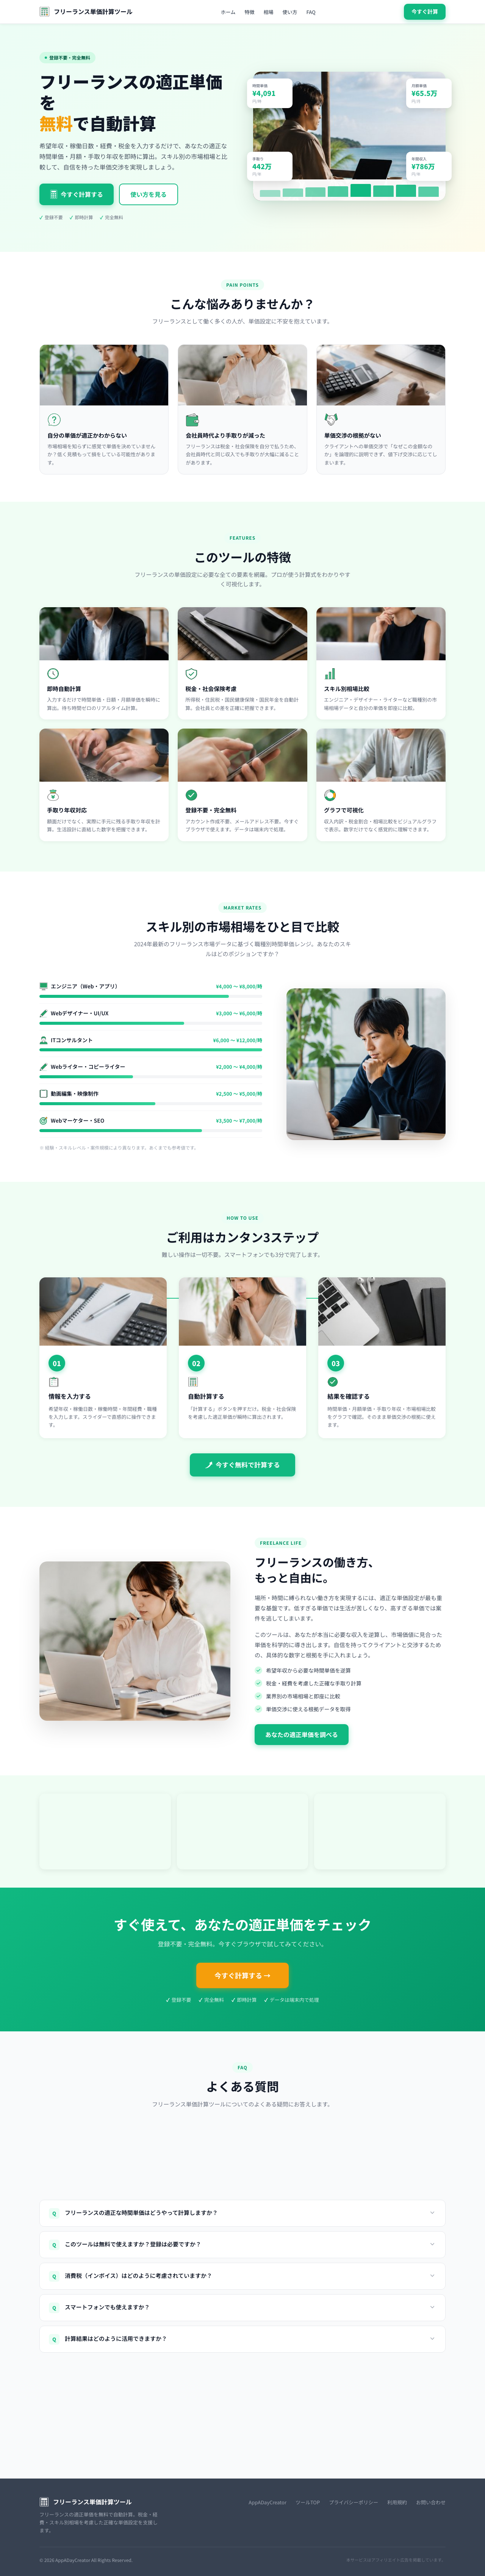
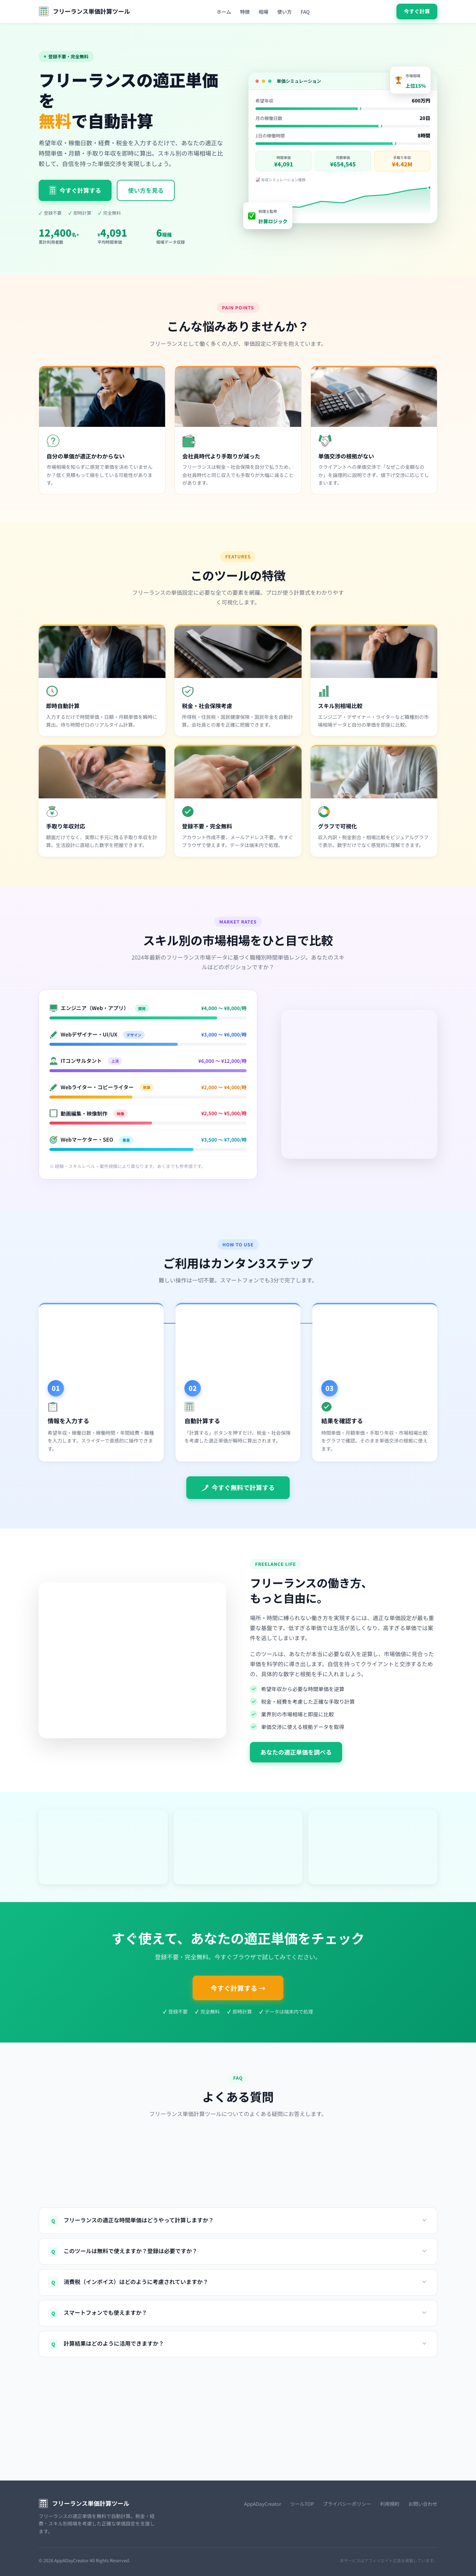
Refine: step7 compare-and-fix vs ChatGPT mockup

diff --git a/lp/index.html b/lp/index.html
@@ -72,6 +72,12 @@ img { max-width: 100%; height: auto; display: block; }
   border-radius: 99px;
   margin-bottom: 14px;
 }
+/* Colored section-label variants (visual richness per section) */
+.section-label.lb-rose   { background: #FFE4E6; color: #E11D48; }
+.section-label.lb-amber  { background: #FEF3C7; color: #D97706; }
+.section-label.lb-violet { background: #EDE9FE; color: #7C3AED; }
+.section-label.lb-blue   { background: #DBEAFE; color: #2563EB; }
+.section-label.lb-cyan   { background: #CFFAFE; color: #0891B2; }
 .section-title {
   font-size: clamp(22px, 4vw, 32px);
   font-weight: 700;
@@ -312,7 +318,7 @@ img { max-width: 100%; height: auto; display: block; }
 .chip-2 { bottom: -16px; left: -14px; }
 
 /* ===== WORRIES ===== */
-.worries { background: #fff; padding: 72px 0; }
+.worries { background: linear-gradient(180deg, #FFF7ED 0%, #FFFBF5 100%); padding: 72px 0; }
 .worries-grid {
   display: grid;
   grid-template-columns: repeat(3, 1fr);
@@ -320,14 +326,15 @@ img { max-width: 100%; height: auto; display: block; }
   margin-top: 48px;
 }
 .worry-card {
-  background: #F9FAFB;
-  border: 1px solid #E5E7EB;
+  background: #fff;
+  border: 1px solid #FDE4CE;
+  border-top: 4px solid #FB923C;
   border-radius: 16px;
   padding: 0;
   overflow: hidden;
   transition: box-shadow 0.2s, transform 0.2s;
 }
-.worry-card:hover { box-shadow: 0 8px 32px rgba(16,185,129,0.1); transform: translateY(-4px); }
+.worry-card:hover { box-shadow: 0 10px 32px rgba(251,146,60,0.18); transform: translateY(-4px); }
 .worry-card-img { width: 100%; height: 160px; object-fit: cover; }
 .worry-card-body { padding: 20px; }
 .worry-icon { width: 36px; height: 36px; margin-bottom: 12px; }
@@ -341,7 +348,8 @@ img { max-width: 100%; height: auto; display: block; }
 .worry-desc { font-size: 13px; color: #6B7280; line-height: 1.65; }
 
 /* ===== FEATURES ===== */
-.features { background: #F0FDF4; padding: 80px 0; }
+.features { background: linear-gradient(180deg, #FFFBEB 0%, #FEF9E7 100%); padding: 80px 0; }
+.feature-card { border-top: 4px solid #FBBF24; }
 .features-grid {
   display: grid;
   grid-template-columns: repeat(3, 1fr);
@@ -368,7 +376,8 @@ img { max-width: 100%; height: auto; display: block; }
 .feature-desc { font-size: 13px; color: #6B7280; line-height: 1.65; }
 
 /* ===== RATES ===== */
-.rates { background: #fff; padding: 80px 0; }
+.rates { background: linear-gradient(180deg, #FAF5FF 0%, #F5F3FF 100%); padding: 80px 0; }
+.rates-table { background: #fff; border: 1px solid #E9D5FF; border-radius: 18px; padding: 24px 28px; box-shadow: 0 8px 30px rgba(139,92,246,0.08); }
 .rates-inner {
   display: grid;
   grid-template-columns: 1fr 420px;
@@ -447,7 +456,8 @@ img { max-width: 100%; height: auto; display: block; }
 .rate-note { font-size: 12px; color: #9CA3AF; margin-top: 16px; }
 
 /* ===== STEPS ===== */
-.steps { background: #F0FDF4; padding: 80px 0; }
+.steps { background: linear-gradient(180deg, #EFF6FF 0%, #EAF2FE 100%); padding: 80px 0; }
+.step-card { border-top: 4px solid #60A5FA; }
 .steps-grid {
   display: grid;
   grid-template-columns: repeat(3, 1fr);
@@ -462,7 +472,7 @@ img { max-width: 100%; height: auto; display: block; }
   left: calc(16.67% + 16px);
   right: calc(16.67% + 16px);
   height: 2px;
-  background: linear-gradient(90deg, #10B981, #34D399);
+  background: linear-gradient(90deg, #3B82F6, #60A5FA);
   z-index: 0;
 }
 .step-card {
@@ -481,13 +491,13 @@ img { max-width: 100%; height: auto; display: block; }
   justify-content: center;
   width: 44px;
   height: 44px;
-  background: #10B981;
+  background: linear-gradient(135deg, #3B82F6, #60A5FA);
   color: #fff;
   font-size: 18px;
   font-weight: 800;
   border-radius: 50%;
   margin-bottom: 14px;
-  box-shadow: 0 4px 12px rgba(16,185,129,0.35);
+  box-shadow: 0 4px 12px rgba(59,130,246,0.35);
 }
 .step-icon { width: 28px; height: 28px; margin-bottom: 10px; }
 .step-title { font-size: 16px; font-weight: 700; color: #111827; margin-bottom: 8px; }
@@ -842,7 +852,7 @@ img { max-width: 100%; height: auto; display: block; }
 <section class="worries" aria-labelledby="worries-title">
   <div class="container">
     <div class="text-center">
-      <div class="section-label">PAIN POINTS</div>
+      <div class="section-label lb-rose">PAIN POINTS</div>
       <h2 class="section-title" id="worries-title">こんな悩みありませんか？</h2>
       <p class="section-sub">フリーランスとして働く多くの人が、単価設定に不安を抱えています。</p>
     </div>
@@ -882,7 +892,7 @@ img { max-width: 100%; height: auto; display: block; }
 <section class="features" id="features" aria-labelledby="features-title">
   <div class="container">
     <div class="text-center">
-      <div class="section-label">FEATURES</div>
+      <div class="section-label lb-amber">FEATURES</div>
       <h2 class="section-title" id="features-title">このツールの特徴</h2>
       <p class="section-sub">フリーランスの単価設定に必要な全ての要素を網羅。プロが使う計算式をわかりやすく可視化します。</p>
     </div>
@@ -949,7 +959,7 @@ img { max-width: 100%; height: auto; display: block; }
 <section class="rates" id="rates" aria-labelledby="rates-title">
   <div class="container">
     <div class="text-center">
-      <div class="section-label">MARKET RATES</div>
+      <div class="section-label lb-violet">MARKET RATES</div>
       <h2 class="section-title" id="rates-title">スキル別の市場相場をひと目で比較</h2>
       <p class="section-sub">2024年最新のフリーランス市場データに基づく職種別時間単価レンジ。あなたのスキルはどのポジションですか？</p>
     </div>
@@ -1034,7 +1044,7 @@ img { max-width: 100%; height: auto; display: block; }
 <section class="steps" id="steps" aria-labelledby="steps-title">
   <div class="container">
     <div class="text-center">
-      <div class="section-label">HOW TO USE</div>
+      <div class="section-label lb-blue">HOW TO USE</div>
       <h2 class="section-title" id="steps-title">ご利用はカンタン3ステップ</h2>
       <p class="section-sub">難しい操作は一切不要。スマートフォンでも3分で完了します。</p>
     </div>
@@ -1106,7 +1116,7 @@ img { max-width: 100%; height: auto; display: block; }
 </section>
 
 <!-- ===== PHOTO GALLERY ROW (extra photos usage) ===== -->
-<section style="background:#F0FDF4;padding:48px 0;">
+<section style="background:linear-gradient(180deg,#ECFEFF 0%,#F0FDFA 100%);padding:48px 0;">
   <div class="container">
     <div style="display:grid;grid-template-columns:repeat(3,1fr);gap:16px;">
       <div style="border-radius:14px;overflow:hidden;box-shadow:0 4px 16px rgba(0,0,0,0.08);">

diff --git a/index.html b/index.html
@@ -283,6 +283,11 @@ body{background:#f6f8f7;}
 .feat-grid{display:grid;grid-template-columns:repeat(4,1fr);gap:14px;}
 .feat-card{background:#fff;border:1px solid var(--line);border-radius:14px;overflow:hidden;box-shadow:0 2px 10px rgba(0,0,0,.04);transition:transform .2s,box-shadow .2s;}
 .feat-card:hover{transform:translateY(-3px);box-shadow:0 8px 20px rgba(16,185,129,.12);}
+.feat-card{border-top:3px solid var(--g);}
+.feat-card:nth-child(1){border-top-color:#FBBF24;}
+.feat-card:nth-child(2){border-top-color:#8B5CF6;}
+.feat-card:nth-child(3){border-top-color:#3B82F6;}
+.feat-card:nth-child(4){border-top-color:#06B6D4;}
 .feat-card .ph{width:100%;height:92px;object-fit:cover;display:block;}
 .feat-card .bd{padding:14px;}
 .feat-card .ic{width:38px;height:38px;margin-top:-32px;margin-bottom:6px;background:#fff;border-radius:10px;padding:5px;box-shadow:0 3px 10px rgba(0,0,0,.12);position:relative;}
@@ -290,8 +295,13 @@ body{background:#f6f8f7;}
 .feat-card p{font-size:12px;color:var(--mut);line-height:1.7;}
 /* steps */
 .step-grid{display:grid;grid-template-columns:repeat(3,1fr);gap:16px;}
-.step-card{background:#fff;border:1px solid var(--line);border-radius:14px;padding:18px;text-align:center;position:relative;}
+.step-card{background:#fff;border:1px solid var(--line);border-top:3px solid var(--g);border-radius:14px;padding:18px;text-align:center;position:relative;}
+.step-card:nth-child(1){border-top-color:#10B981;}
+.step-card:nth-child(2){border-top-color:#3B82F6;}
+.step-card:nth-child(3){border-top-color:#8B5CF6;}
 .step-card .no{display:inline-flex;align-items:center;justify-content:center;width:40px;height:40px;border-radius:50%;background:var(--g);color:#fff;font-weight:800;font-size:17px;margin-bottom:10px;}
+.step-card:nth-child(2) .no{background:#3B82F6;}
+.step-card:nth-child(3) .no{background:#8B5CF6;}
 .step-card img.ph{width:100%;height:84px;object-fit:cover;border-radius:10px;margin-bottom:10px;}
 .step-card h3{font-size:14px;font-weight:800;color:var(--ink);margin-bottom:5px;}
 .step-card p{font-size:12.5px;color:var(--mut);line-height:1.7;}